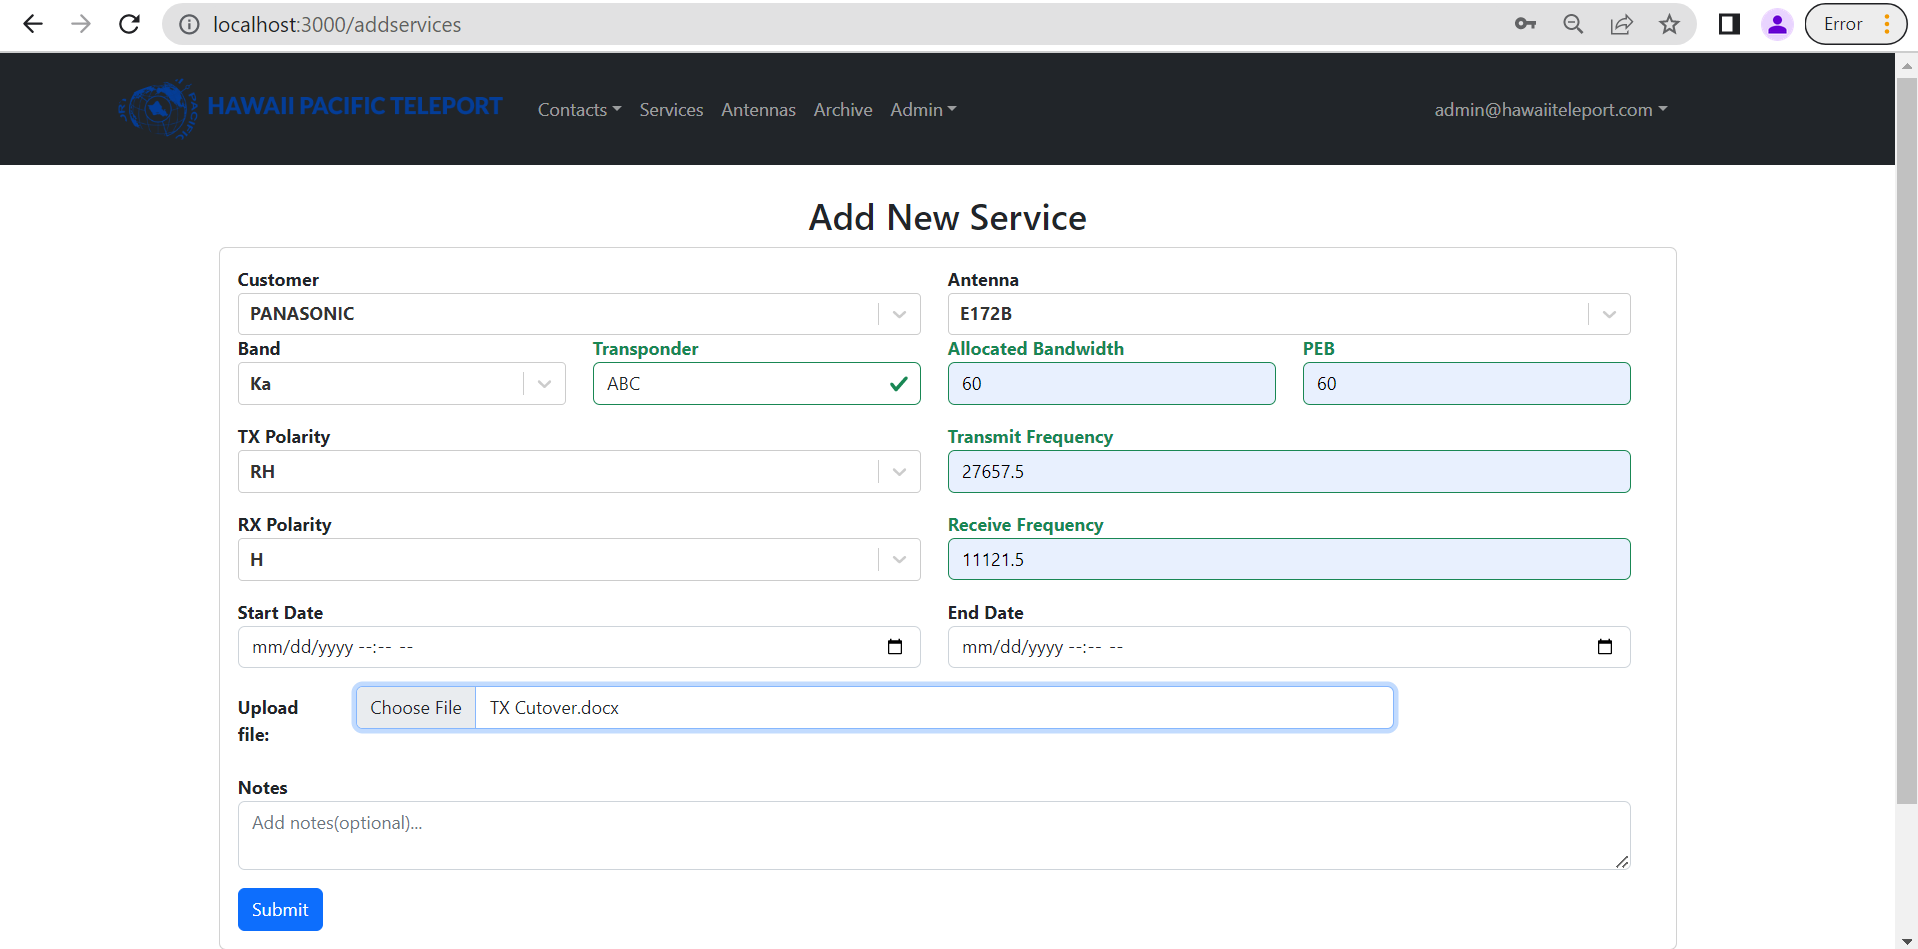
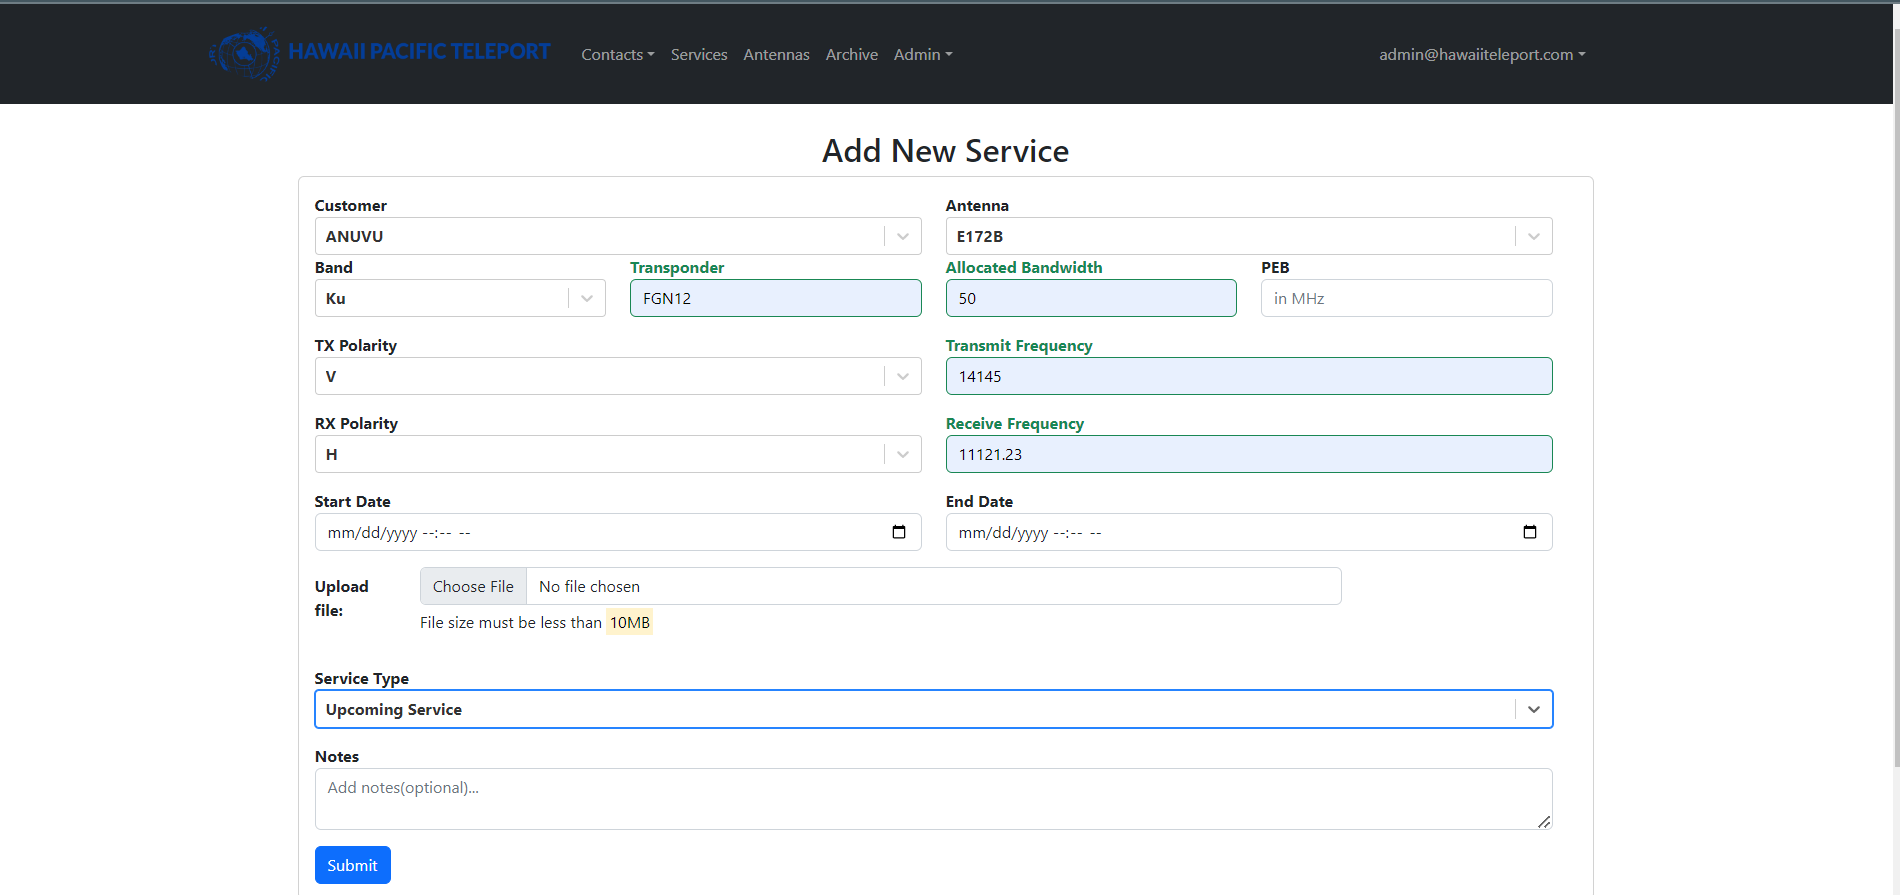
added incoming services docs

diff --git a/index.md b/index.md
@@ -69,6 +69,9 @@ Navigate to the "Services" page and select the "Add Services" button or access i
 Complete the form with the required information, and upload any necessary files if desired.
 Once complete, submit the form to finalize the process.
 
+> Please note that by default, all services are designated as active services.
+> However, users have the option to select the service type as "Upcoming Service" and activate it from the List Services page.
+
 ![screenshot of the addservices Page](doc/addnewservice.png)
 
 **Individual Service**
@@ -78,6 +81,13 @@ By selecting the customer button on the left sidebar, the application will displ
 On this page, users have the ability to view and archive the service. Additionally, users have the option to add the service to Spectras, an external device that is utilized for monitoring services. Once added to the Spectras application, users can access the latest graph of the service. This feature allows for quick and efficient monitoring of the service status and aids in troubleshooting during issues and outages.
 
 ![screenshot of the individual services Page](doc/individualservice.png)
+
+<br>
+
+> Screenshot of the individual service page that displays an incoming service.
+> To activate the service, simply click on the "Set Active" button.
+
+![screenshot of the individual services Incoming Page](doc/individualserviceincoming.png)
 
 <br>
 Click on the "Show Details" button to view the service's details.
